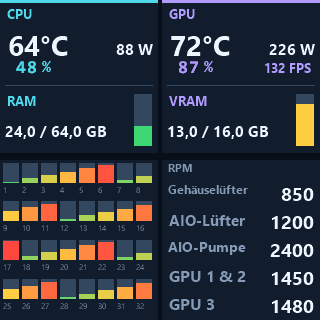
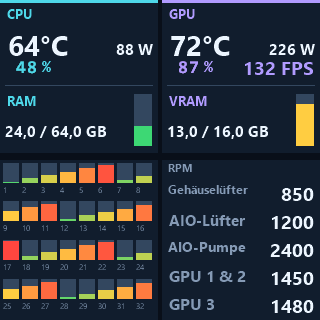
Prepare preview.7 release notes and larger FPS screenshots

Changed region(s): [[0.75, 0.1875, 1.0, 0.25]]

diff --git a/tools/Screenshots/Program.cs b/tools/Screenshots/Program.cs
@@ -38,7 +38,7 @@ static class DocumentationScreenshots
                   new("gpu1","GPU 1 & 2",1450,"LibreHardwareMonitor",72,"","","",""),
                   new("gpu2","GPU 3",1480,"LibreHardwareMonitor",72,"","","","")]
         };
-        using var thermal = UnifiedEngine.RenderThermalright(sample, settings.Thermalright);
+        using var thermal = UnifiedEngine.RenderThermalright(sample with { At=DateTime.UtcNow }, settings.Thermalright);
         using var classic = Renderer.Draw(sample, settings.MiraBox.MiraBox);
         var panoramaConfig = new PanelConfig { Design="Thermalright", ThreadNumbers=true }.Normalize();
         using var panorama = Renderer.Draw(sample, panoramaConfig);

diff --git a/docs/RELEASE-v2.0.0-preview.7.md b/docs/RELEASE-v2.0.0-preview.7.md
@@ -1,0 +1,32 @@
+# MiraRight Panel — Hardware Monitor · v2.0.0-preview.7
+
+Windows-x64-Vorschau für **Thermalright FROZEN WARFRAME 360** (getesteter 320×320-Controller `87AD:70DB`, PM32/SUB1) und **MiraBox D92 9.2-inch Universal Screen for PC** (1920×462, `5548:1011`). Eines oder beide Displays können mit eigenen Einstellungen verwendet werden.
+
+## Neu im Thermalright-Dashboard
+
+- **CPU-/GPU-Watt neben Celsius:** Leistungsaufnahme jeweils rechts neben der Temperatur; kompaktere Temperaturzahlen für die native 320×320-Fläche.
+- **Größere FPS-Anzeige:** FPS der aktiven Anwendung rechts neben der GPU-Prozentlast, mit 14 statt zunächst 10 Punkt Ausgangsschriftgröße. Längere Zahlen werden bei Bedarf eingepasst.
+- Die Zusatzwerte verwenden die bereits vorhandenen, pro Display geglätteten Sensor-/PresentMon-Daten. FPS sind keine USB-Bilder/s. Ohne gültige Messung erscheint `— W` bzw. `— FPS`; gemessene Nullwerte bleiben als Null erkennbar.
+- RAM/VRAM, Threadraster, Lüfterbereich und feste Prozentpositionen bleiben erhalten. MiraBox-Designs und Sensorprotokoll sind funktional unverändert.
+
+## Download und Start
+
+**MiraRight-Panel-v2.0.0-preview.7-windows-x64.zip** vollständig entpacken und **Start-MiraRight-Panel.cmd** starten. .NET-Laufzeit, Libre-Sensorbibliothek, PresentMon, Lizenztexte, passende Quellen und Prüfsummen sind enthalten. Die zugehörige `.zip.sha256` enthält die ZIP-Prüfsumme. Die Anwendung ist nicht codesigniert.
+
+Vorhandenes WinUSB für den unterstützten Thermalright-Controller wird vorausgesetzt; MiraBox nutzt Windows HID. Keine Treiber- oder Firmwareinstallation. Andere Warframe-/SE-/Pro-Varianten und abweichende Controller sind nicht pauschal bestätigt. **MiraRight-Panel-Vorschau.cmd** öffnet eine Vorschau ohne USB-Ausgabe und ohne UAC-Anforderung.
+
+## Update und Backup
+
+1. Anwendung im Infobereich über **Beenden** schließen und bisherigen Ordner sichern.
+2. Neues Paket separat entpacken und eigene **displays.json** sowie gegebenenfalls eigene Lüfter-/Konfigurationsdateien übernehmen. Verweist `FanConfigPath` auf den alten Ordner, die zugehörige Datei ebenfalls übernehmen und den Pfad anpassen. Bei Ordnerwechsel Desktop-Verknüpfung und Windows-Autostart aktualisieren.
+3. Bei eingerichteter Sensoraufgabe **Install-SensorAutostart.ps1 aus dem neuen Paket erneut als Administrator ausführen**, damit auch die geschützte Sensorinstallation zum Paketstand passt. Die bisherige Sensorinstallation bleibt als Backup erhalten. Details: **SENSOR-AUTOSTART.md**.
+
+Preview.6 bleibt als bisheriger Download erhalten. Ohne eingerichtete Sensoraufgabe kann für erweiterte Sensorrechte weiterhin eine UAC-Bestätigung nötig sein. Die optionale Aufgabe speichert keine Kennwörter; die Oberfläche bleibt normal gestartet.
+
+## Prüfung und Grenzen
+
+Build und Regressionstests; Zusatzwerte aus dem gemeinsamen Snapshot; fehlende, ungültige, Null- und veraltete Werte; getrennte Pixelbereiche für Watt/FPS ohne Änderung an Speicher-, Thread-, Lüfter- und GPU-Prozentbereichen. Visuelle Kontrolle drei-/vierstelliger FPS und großer Watt-/Temperaturwerte. Die 42 historischen Referenzbilder bleiben bytegleich; das aktuelle Dashboard ergänzt die neuen Werte bewusst.
+
+Die angepasste Oberfläche wurde lokal mit erhaltenen Einstellungen und vorhandener Sensoraufgabe am Thermalright-LCD gestartet; gemeinsame Sensoren und RPM sind aktuell. Ein kompletter Windows-Neustart, neue Hardware und eine umfassende Prüfung einzelner Spiele/FPS-Erfassungen sind nicht Bestandteil dieser Änderung. Fehlende oder vom Treiber nicht angebotene Werte werden nicht geschätzt.
+
+Inoffizielles Community-Projekt. Nutzung, Datenschutz, Impressum und Lizenzinformationen liegen dem Paket bei.

diff --git a/README.md b/README.md
@@ -76,7 +76,7 @@ MiraBox bekommt ein eigenes Profil, unabhängig von einem gleichzeitig betrieben
 
 ## Download
 
-Lade das **Windows-x64-Programmpaket** der [aktuellen öffentlichen Vorschau](https://github.com/Starbite82/MiraRight-Panel/releases/tag/v2.0.0-preview.6)
+Lade das **Windows-x64-Programmpaket** der [aktuellen öffentlichen Vorschau](https://github.com/Starbite82/MiraRight-Panel/releases/tag/v2.0.0-preview.7)
 herunter und entpacke das ZIP vollständig. .NET-Laufzeit, Sensorbibliothek und PresentMon sind enthalten.
 Die GitHub-Schaltfläche „Code → Download ZIP“ liefert den Quellcode für Entwickler.
 

diff --git a/CHANGELOG.md b/CHANGELOG.md
@@ -1,6 +1,6 @@
 # Änderungen
 
-## 2.0.0-preview.7 — Thermalright-Dashboard (noch kein GitHub-Release)
+## 2.0.0-preview.7 — Thermalright-Dashboard
 
 - CPU-/GPU-Leistungsaufnahme rechts neben der jeweiligen Temperatur auf dem 320×320-Dashboard.
 - FPS der aktiven Anwendung rechts neben der GPU-Prozentlast, aus der gemeinsamen PresentMon-Erfassung.
